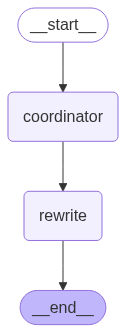
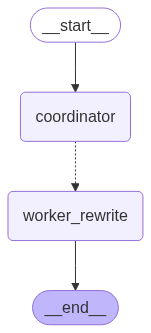
init

diff --git a/src/graph/node.py b/src/graph/node.py
@@ -1,8 +1,11 @@
 from src.graph.types import State
-from langgraph.types import RunnableConfig
+from langgraph.types import RunnableConfig, Send
 from src.llms.llm import get_llm
 from langchain_core.messages import SystemMessage, HumanMessage
 from newspaper import Article
+from src.prompts.template import apply_prompt_template
+from src.graph.types import workerState
+from datetime import datetime
 
 def coordinator_node(state: State, config: RunnableConfig):
     if not state["url"] and not state["article_content"]:
@@ -16,16 +19,46 @@ def coordinator_node(state: State, config: RunnableConfig):
             article_content=article.text,
         )
     
-def rewrite_node(state: State, config: RunnableConfig) -> State:
+async def worker_rewrite_node(state: workerState, config: RunnableConfig) -> State:
+    print("platform:"+state.platform+" start time:"+datetime.now().strftime("%Y-%m-%d %H:%M:%S"))
+    llm = get_llm()
+    input = apply_prompt_template("rewrite", state)
+    input += [
+        HumanMessage(content=f"Rewrite the article: {state.article_content}"),
+    ]
+    result = await llm.ainvoke(input=input)
+    #打印当前时间
+    print("platform:"+state.platform+" end time:"+datetime.now().strftime("%Y-%m-%d %H:%M:%S"))
+    return State(
+        rewrite_results={
+            state.platform: result,
+        }
+    )
+    
+def assgin_worker_write(state: State, config: RunnableConfig):
     if not state["article_title"] and not state["article_content"]:
         raise ValueError("article_title and article_content are required")
-    llm = get_llm()
-    result = llm.invoke(
-        input=[
-            SystemMessage(content="You are a helpful assistant that can rewrite articles."),
-            HumanMessage(content=f"Rewrite the article: {state['article_content']}"),
-        ]
-    )
-    return State(
-        messages=[result]
-    )
+    return [
+        Send("worker_rewrite",workerState(
+            platform=platform,
+            article_title=state["article_title"],
+            article_content=state["article_content"],
+            change_style=state["change_style"],
+        )) for platform in state["platforms"]
+    ]
+    # llm = get_llm()
+    # input = apply_prompt_template("rewrite", workerState(
+    #     platform="facebook",
+    #     article_title=state["article_title"],
+    #     article_content=state["article_content"],
+    #     change_style="Casual",
+    # ))
+    # input += [
+    #     HumanMessage(content=f"Rewrite the article: {state['article_content']}"),
+    # ]
+    # result = llm.invoke(
+    #     input=input
+    # )
+    # return State(
+    #     messages=[result]
+    # )

diff --git a/src/graph/build.py b/src/graph/build.py
@@ -1,27 +1,36 @@
 from langgraph.graph import StateGraph, START, END
 from src.graph.types import State
-from src.graph.node import coordinator_node, rewrite_node
-
+from src.graph.node import coordinator_node, assgin_worker_write, worker_rewrite_node
+import asyncio
 def _build_base_graph():
     graph = StateGraph(State)
     graph.add_node("coordinator", coordinator_node)
-    graph.add_node("rewrite", rewrite_node)
+    graph.add_node("worker_rewrite", worker_rewrite_node)
     graph.add_edge(START, "coordinator")
-    graph.add_edge("coordinator", "rewrite")
-    graph.add_edge("rewrite", END)
+    graph.add_conditional_edges(
+        "coordinator",
+        assgin_worker_write,
+        ["worker_rewrite"]
+    )
+    graph.add_edge("worker_rewrite", END)
     return graph
 
-if __name__ == "__main__":
+async def main():
     graph = _build_base_graph()
     workflow = graph.compile()
-    workflow.get_graph().draw_mermaid_png(
-        output_file_path="graph.png",
-    )
-    # result = workflow.invoke(
-    #     State(
-    #         url="https://blog.respon.ai/zh/docs/difference-between-whatspp-messenger-business-and-api",
-    #         article_title="",
-    #         article_content="",
-    #     )
+    # workflow.get_graph().draw_mermaid_png(
+    #     output_file_path="graph.png",
     # )
-    # print(result)
+    result = await workflow.ainvoke(
+        State(
+            url="https://blog.respon.ai/zh/docs/difference-between-whatspp-messenger-business-and-api",
+            article_title="",
+            article_content="",
+            platforms=["facebook","instagram","x"],
+            change_style="Casual",
+        )
+    )
+    print(result)
+
+if __name__ == "__main__":
+    asyncio.run(main())

diff --git a/src/prompts/template.py b/src/prompts/template.py
@@ -1,0 +1,43 @@
+# Copyright (c) 2025 Bytedance Ltd. and/or its affiliates
+# SPDX-License-Identifier: MIT
+
+import os
+import dataclasses
+from datetime import datetime
+from src.graph.types import workerState
+from jinja2 import Environment, FileSystemLoader, select_autoescape
+
+env = Environment(
+    loader=FileSystemLoader(os.path.dirname(__file__)),
+    autoescape=select_autoescape(),
+    trim_blocks=True,
+    lstrip_blocks=True,
+)
+
+
+
+def apply_prompt_template(
+    prompt_name: str, state: workerState
+) -> list:
+    """
+    Apply template variables to a prompt template and return formatted messages.
+
+    Args:
+        prompt_name: Name of the prompt template to use
+        state: Current agent state containing variables to substitute
+
+    Returns:
+        List of messages with the system prompt as the first message
+    """
+    # Convert state to dict for template rendering
+    state_vars = {
+        "CURRENT_TIME": datetime.now().strftime("%a %b %d %Y %H:%M:%S %z"),
+        **state.model_dump(),
+    }
+
+    try:
+        template = env.get_template(f"{prompt_name}.md")
+        system_prompt = template.render(**state_vars)
+        return [{"role": "system", "content": system_prompt}]
+    except Exception as e:
+        raise ValueError(f"Error applying template {prompt_name}: {e}")

diff --git a/src/graph/types.py b/src/graph/types.py
@@ -1,6 +1,7 @@
 from langgraph.graph import MessagesState
 from typing import Literal, Annotated
 import operator
+from pydantic import BaseModel
 
 _platfrom_types = Literal["whatsapp", "facebook", "instagram", "x"]
 
@@ -15,7 +16,10 @@ class State(MessagesState):
     change_topic_or_product: Literal["all", "specific"]
     rewrite_results: Annotated[dict[str, any], operator.or_]
 
-class workerState:
+class workerState(BaseModel):
     platform: _platfrom_types
     article_title: str
     article_content: str
+    change_style: Literal["Casual", "Friendly", "Professional", "Persuasive"]
+    # change_target: Literal["all", "specific"]
+    # change_topic_or_product: Literal["all", "specific"]

diff --git a/test.py b/test.py
@@ -1,0 +1,15 @@
+from src.prompts.template import apply_prompt_template
+from src.graph.types import workerState
+from newspaper import Article
+
+article = Article("https://blog.respon.ai/zh/docs/difference-between-whatspp-messenger-business-and-api")
+article.download()
+article.parse()
+
+result = apply_prompt_template("rewrite", workerState(
+    platform="facebook",
+    article_title=article.title,
+    article_content=article.text,
+    change_style="Casual",
+))
+print(result)

diff --git a/src/prompts/rewrite.md b/src/prompts/rewrite.md
@@ -1,0 +1,54 @@
+---
+CURRENT_TIME: {{ CURRENT_TIME }}
+---
+
+你是一位专业的长文章总结和提炼助手，擅长从长篇文章中提取出关键信息并用 {{change_style}} 的语气风格输出文案,该文案用户发布到社交媒体平台（{{platform}}）
+
+#文案要求
+{% if platform == "facebook" %}
+- 正文长度：推荐50-150字符；不超过1000字符
+- 行文结构：
+  - 开篇hook：用简短问句或惊人数据抓住注意力
+  - 核心内容：1-2句话阐述价值或观点
+  - 结尾进行行动号召，激发互动
+  - hashtag：1-3个hashtag
+- 其他：
+  - 适当插入emoji表情符号，增强可读性和视觉区隔
+  - 表达自然、口语化
+{% elif platform == "instagram" %}
+- 正文长度：推荐 100–150 字符；不超过2200字符
+- 行文结构：
+  - 开篇hook：一句话引发好奇或共鸣
+  - 内容突出故事性，或提供干货建议
+  - 结尾进行行动号召，激发互动
+  - Hashtag：3-5个hashtag
+- 其他：
+  - 多插入emoji表情符号，增强可读性和视觉区隔
+  - 表达口语化、多用短句
+{% elif platform == "x" %}
+- 正文长度：推荐 70–100 字符；不超过280字符
+- 行文结构：
+  - 首句点明要点
+  - 1-2句补充背景或见解
+  - 结尾进行行动号召，激发互动
+  - hashtag：1-2个hashtag
+- 其他：
+  - 适当分行和插入emoji表情，增加视觉区隔
+  - 语言简练
+{% elif platform == "tiktok" %}
+- 正文长度：推荐30-100字符；不超过4000字符
+- 行文结构：
+  - 开篇hook：悬念或挑战调动情绪，吸引观众，使用较夸张的语气
+  - 1句话核心价值或看点
+  - 结尾激发评论区互动
+  - hashtag：3-5个hashtag
+- 其他：
+  - 适当添加emoji表情
+  - 语言风格口语化、节奏性强
+{% elif platform == "linkin" %}
+- 正文长度：推荐200-500字符；不超过3000字符
+- 行文结构：
+  - 提出行业痛点或机会
+  - 列出2-3点行动建议或解决方案
+  - 鼓励专业讨论
+{% endif %}
